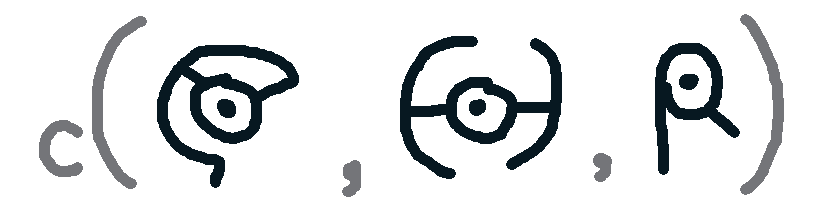
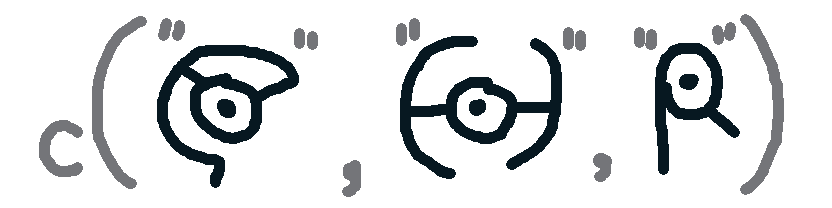
Improve type post

diff --git a/content/post/2023-04-20-type-convert.html b/content/post/2023-04-20-type-convert.html
@@ -23,23 +23,22 @@ Confirmed: <a href="https://bulbapedia.bulbagarden.net/wiki/Unown_(Pok%C3%A9mon)
 </div>
 <div id="tldr" class="section level1">
 <h1>tl;dr</h1>
-<p>In which I proselytise about <code>type.convert()</code>. Handy for ‘simplifying’ all the columns of a dataframe to appropriate data types.</p>
+<p>I forgot that the base R function <code>type.convert()</code> exists. Handy for ‘simplifying’ all the columns of a dataframe to appropriate data types.</p>
 </div>
 <div id="suppression-depression" class="section level1">
 <h1>Suppression depression</h1>
 <p><a href="https://co-analysis.github.io/a11ytables/">{a11ytables}</a> is an R package that lets you generate publishable spreadsheets that follow the UK government’s <a href="https://analysisfunction.civilservice.gov.uk/policy-store/releasing-statistics-in-spreadsheets/">best practice guidance</a>.</p>
-<p>One requirement is to replace missing values with placeholder symbols. For example, suppressed data can be replaced with <code>[c]</code> for ‘confidential’.</p>
-<p>This causes a small problem: a column of numeric data in an R dataframe will be coerced to character type with the presence of even a single placeholder symbol.</p>
-<p>So this vector of 100 sampled values is ‘double’, which is a kind of ‘numeric’ value:</p>
+<p>One requirement is to replace missing values with placeholder symbols. For example, suppressed data can be replaced with the string <code>"[c]"</code> (‘confidential’).</p>
+<p>Of course, R’s behaviour means it can store only one data type per column, so a numeric-type column will be automatically converted to character when you introduce at least one string value (i.e. something in <code>"quotes"</code>).<a href="#fn2" class="footnote-ref" id="fnref2"><sup>2</sup></a></p>
+<p>For example, this vector is type ‘double’ (i.e. decimals and not ‘whole-number’ integers) and has the more general ‘numeric’ class:</p>
 <pre class="r"><code>nums &lt;- runif(100)
-typeof(nums)</code></pre>
+typeof(nums); class(nums)</code></pre>
 <pre><code>## [1] &quot;double&quot;</code></pre>
-<pre class="r"><code>class(nums)</code></pre>
 <pre><code>## [1] &quot;numeric&quot;</code></pre>
-<p>But the addition of a single character value coerces<a href="#fn2" class="footnote-ref" id="fnref2"><sup>2</sup></a> the whole thing to ‘character’.</p>
+<p>The whole thing is converted to character type if you append just one character value.</p>
 <pre class="r"><code>typeof(c(nums, &quot;[c]&quot;))</code></pre>
 <pre><code>## [1] &quot;character&quot;</code></pre>
-<p>R can only store one data type per column, of course. But this causes a minor annoyance in the xlsx files output from an {a11ytables} workflow: Excel puts a warning marker in the corner of any cell in a text column that contains a numeric value.<a href="#fn3" class="footnote-ref" id="fnref3"><sup>3</sup></a></p>
+<p>This is known behaviour, yes, but it causes a minor annoyance in the xlsx files output from an {a11ytables} workflow: Excel puts a warning marker in the corner of any cell in a text column that contains a numeric value.<a href="#fn3" class="footnote-ref" id="fnref3"><sup>3</sup></a></p>
 <div class="figure">
 <p><img src="/post/2023-04-20-type-convert_files/number-text.png" alt="Screenshot of an Excel worksheet. A cell containing a number has a warning that reads 'number stored as text'." width="100%"/></p>
 </div>
@@ -68,7 +67,7 @@ tbl</code></pre>
 ## 3 C      0.74  7.12
 ## 4 D      4.54  6.98
 ## 5 E      3.73  6.58</code></pre>
-<p>So, to borrow and simplify Cat’s approach: for each numeric column in <code>tbl</code> (i.e. <code>x</code> and <code>y</code>), replace any value of less than 5 with the placeholder value <code>[c]</code>, otherwise retain the original value.</p>
+<p>So, to borrow and simplify Cat’s approach: for each numeric column in <code>tbl</code> (i.e. <code>x</code> and <code>y</code>), replace any value of less than 5 with the placeholder string <code>"[c]"</code>, otherwise retain the original value.</p>
 <pre class="r"><code>tbl_supp &lt;- tbl |&gt; 
   mutate(
     across(
@@ -91,14 +90,19 @@ tbl_supp</code></pre>
 ## 4 D     [c]   6.98 
 ## 5 E     [c]   6.58</code></pre>
 <p>So column <code>x</code> now contains text values and has predictably been converted to character, which you can see as <code>&lt;chr&gt;</code> in the tibble header. But notice that <code>y</code> is also character type despite all the numeric values being retained.</p>
-<p>This happened because the <code>if_else</code> we used to create <code>tbl_supp</code> requires the <code>true</code> and <code>false</code> arguments to resolve to the same type. The <code>false</code> option must output character since <code>true</code> resolves to the string <code>[c]</code>,</p>
-<p>Ideally we would perform our suppression step, but column <code>x</code> would end up as character and <code>y</code> as numeric. How can we achieve this?</p>
+<p>This happened because the <code>if_else()</code> we used to create <code>tbl_supp</code> required the <code>true</code> and <code>false</code> arguments to resolve to the same type. The <code>false</code> argument must use <code>as.character()</code> because <code>true</code> resolves to the character value <code>"[c]"</code>.</p>
+<p>Ideally we’d perform our suppression step but column <code>x</code> would end up as character and <code>y</code> as numeric. How can we achieve this?</p>
 </div>
 <div id="adjust-my-type" class="section level1">
 <h1>Adjust my type</h1>
-<p>Below are some methods to fix the problem: (1) what not to do, (2) how to use a special base R function, and (3) how it should really probably actually be done.</p>
-<div id="nah" class="section level2">
-<h2>1. Nah</h2>
+<p>In this section are some methods to fix the problem by:</p>
+<ol style="list-style-type: decimal">
+<li>Causing yourself further brainache</li>
+<li>Using a (relatively little known?) base R function</li>
+<li>Doing it ‘properly’ from the outset</li>
+</ol>
+<div id="type-1-nah" class="section level2">
+<h2>Type 1: nah</h2>
 <p>Of course, we could run <code>tbl_supp |&gt; mutate(y = as.numeric(y))</code> to convert that specific column back to numeric. But imagine if you have a lot more columns and you can’t be sure which ones need to be converted.</p>
 <p>Maybe you could apply <code>as.numeric()</code> across <em>all</em> columns? Columns of numbers stored as text will then be converted entirely to numeric:</p>
 <pre class="r"><code>as.numeric(c(&quot;1&quot;, &quot;2&quot;, &quot;3&quot;))</code></pre>
@@ -107,12 +111,13 @@ tbl_supp</code></pre>
 <pre class="r"><code>as.numeric(c(&quot;1&quot;, &quot;[c]&quot;))</code></pre>
 <pre><code>## Warning: NAs introduced by coercion</code></pre>
 <pre><code>## [1]  1 NA</code></pre>
-<p>So <code>"1"</code> becomes <code>1</code>, but we’re warned that <code>[c]</code> has been converted to <code>NA</code> (well, <code>NA_real_</code>, which is the numeric form of <code>NA</code>). This approach actually makes things worse because we’ve just lost some information! We could do something convoluted, like see which columns gained <code>NA</code> values in the process, but that’s bonkers.</p>
+<p>So <code>"1"</code> becomes <code>1</code>, but we’re warned that <code>"[c]"</code> has been converted to <code>NA</code> (well, <code>NA_real_</code>, which is the numeric form of <code>NA</code>).</p>
+<p>We could do something convoluted, like see which columns didn’t gain <code>NA</code> values and should be retained as numeric. But that’s bonkers. This approach ultimately makes things worse because we’ve actually lost information!</p>
 <p>Really we want to check each column to see if it contains numbers only and then convert it to numeric. How?</p>
 </div>
-<div id="maybe" class="section level2">
-<h2>2. Maybe</h2>
-<p>I’ll cut to the chase. There’s a handy base R function that I had forgotten about: <code>type.convert()</code>.</p>
+<div id="type-2-better" class="section level2">
+<h2>Type 2: better</h2>
+<p>There’s a handy base R function that I had forgotten about: <code>type.convert()</code>.</p>
 <p>It takes a vector and, in turn, tries to coerce it to each data type. The process stops when coercion occurs without error. As the help file (<code>?type.convert</code>) puts it:</p>
 <blockquote>
 <p>Given a vector, the function attempts to convert it to logical, integer, numeric or complex, and when additionally as.is = FALSE… converts a character vector to factor. The first type that can accept all the non-missing values is chosen.</p>
@@ -135,8 +140,8 @@ tbl_supp_conv</code></pre>
 ## 5 E     [c]    6.58</code></pre>
 <p>As we wanted, our character column <code>y</code> has become numeric type (<code>&lt;dbl&gt;</code>) while <code>x</code> remains as character. Neato.</p>
 </div>
-<div id="okay" class="section level2">
-<h2>3. Okay</h2>
+<div id="type-3-betterer" class="section level2">
+<h2>Type 3: betterer</h2>
 <p>Having said all this, there are probably better approaches to this problem from the outset.</p>
 <p>For example, you could restrict the suppression method to the columns that actually require it. Numeric columns would remain untouched. You could do that with a simple <code>for</code> and <code>if</code>:</p>
 <pre class="r"><code>cols_numeric &lt;- names(select(tbl, where(is.numeric)))
@@ -160,12 +165,13 @@ tbl</code></pre>
 ## 3 C     [c]    7.12
 ## 4 D     [c]    6.98
 ## 5 E     [c]    6.58</code></pre>
-<p>This reads as ‘for each numeric column that contains at least one value less than 5, replace those values with the placeholder symbol <code>[c]</code>.’ That’s way easier.</p>
+<p>This reads as ‘for each numeric column that contains at least one value less than 5, replace those values with the placeholder symbol <code>"[c]"</code>.’ That’s way easier.</p>
 </div>
 </div>
 <div id="preach-to-the-converted-types" class="section level1">
 <h1>Preach to the converted types</h1>
-<p>It’s almost like this post could have just been a tweet saying ‘🤭 yo, <code>type.conversion()</code> is 🪄magic🪄 y’all’. But this post is now a handy reference in case anyone has the same problems with Excel’s handling of {a11ytables} outputs in future. Also I needed to hit my pun quota for the month.<a href="#fn4" class="footnote-ref" id="fnref4"><sup>4</sup></a></p>
+<p>It’s almost like this post could have just been a tweet saying ‘🤭 yo, <code>type.conversion()</code> is 🪄magic🪄 y’all’. But this post is now a handy reference in case anyone has the same problems with Excel’s handling of {a11ytables} outputs in future.</p>
+<p>Also I needed to hit my pun quota for the month.<a href="#fn4" class="footnote-ref" id="fnref4"><sup>4</sup></a></p>
 <hr />
 <details>
 <summary>
@@ -228,7 +234,7 @@ Session info
 <hr />
 <ol>
 <li id="fn1"><p>This is a Pokémon joke. I could have gone with <a href="https://bulbapedia.bulbagarden.net/wiki/Type:_Null_(Pok%C3%A9mon)">Type: Null</a>, but it’s too hard to draw.<a href="#fnref1" class="footnote-back">↩</a></p></li>
-<li id="fn2"><p>There’s a sort of ‘coercion hierarchy’ in R. The order is like logical &gt; integer &gt; numeric &gt; character, where the latter are ‘dominant’ to those prior (massive oversimplification). This results in some oddities to the untrained eye: <code>sum(2, TRUE)</code> resolves to <code>3</code>, because <code>TRUE</code> is coerced to numeric (since <code>2</code> is in the sum), which forces <code>TRUE</code> to be coerced to <code>1</code> (<code>FALSE</code> is <code>0</code>).<a href="#fnref2" class="footnote-back">↩</a></p></li>
+<li id="fn2"><p>There’s a sort of ‘coercion hierarchy’ in R. The order is like logical &gt; integer &gt; numeric &gt; character, where the latter are ‘dominant’ to those prior (massive oversimplification). As an aside, this results in some oddities to the untrained eye: <code>sum(2, TRUE)</code> resolves to <code>3</code>, because <code>TRUE</code> is coerced to the numeric value <code>1</code> (<code>FALSE</code> is <code>0</code>) and so we get 2 + 1 = 3.<a href="#fnref2" class="footnote-back">↩</a></p></li>
 <li id="fn3"><p>You can dismiss these warning markers in the Excel GUI, but I don’t think it’s possible to suppress these markers programmatically and proactively in {a11ytables}. Note also that {a11ytables} cheats a bit here for sake of presentation. The <code>generate_workbook()</code> function guesses that the column was intended to be numeric and adds style information to right-align the values in the output xlsx, which is how numeric values are normally treated in Excel.<a href="#fnref3" class="footnote-back">↩</a></p></li>
 <li id="fn4"><p>Turns out there’s literally such a thing as <a href="https://en.wikipedia.org/wiki/Type_punning">type punning</a>.<a href="#fnref4" class="footnote-back">↩</a></p></li>
 </ol>
